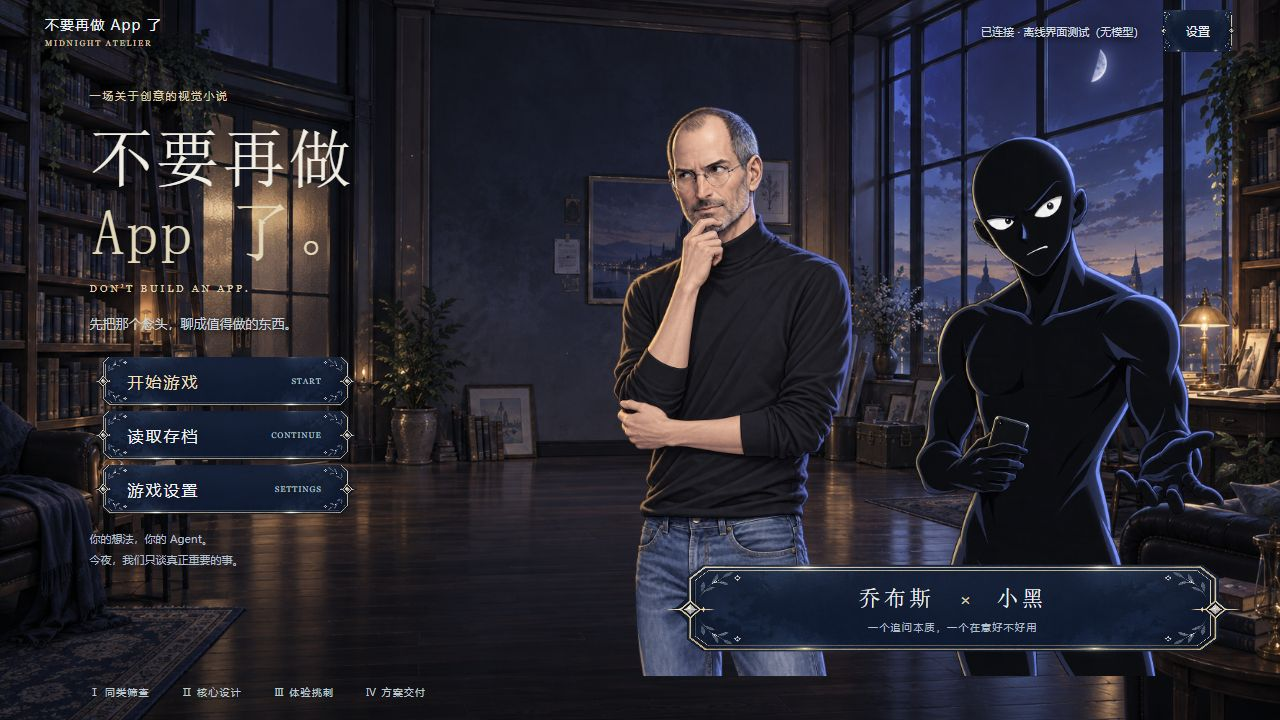
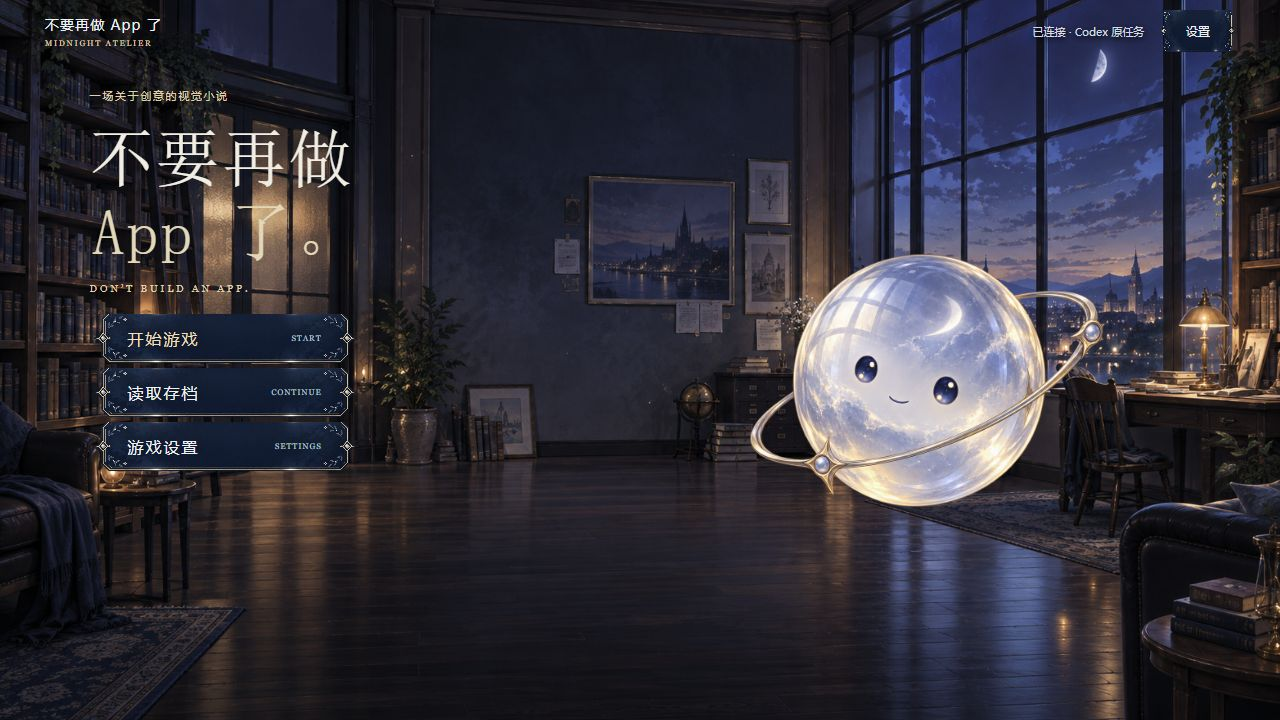
Simplify main menu and feature the system companion

diff --git a/web/game.css b/web/game.css
@@ -56,30 +56,14 @@ header {
 }
 .menu h1 span { display: block; padding-left: .04em; color: #e5d7b7; }
 .title-en { font: 10px Georgia, serif; color: var(--gold); letter-spacing: .29em; margin: 18px 0 26px; }
-.intro { font-size: 13px; line-height: 1.9; color: #c4d1dc; text-shadow: 0 2px 6px #000; }
 .menu-actions { margin-top: 29px; display: flex; flex-direction: column; gap: 10px; width: 270px; }
 .menu-actions button {
   display: flex; align-items: center; justify-content: space-between;
   width: 100%; height: 57px; padding: 0 38px; font-size: 16px; letter-spacing: .12em;
 }
 .menu-actions small { font: 8px Georgia, serif; letter-spacing: .12em; color: #b9c9d5; }
-.menu-note { font-size: 11px; line-height: 1.9; margin-top: 22px; color: #b0bfcc; }
-.cover { position: absolute; top: 6px; bottom: 44px; right: 1%; width: 63%; z-index: 1; pointer-events: none; }
-.cover img { position: absolute; bottom: 0; height: 97%; width: 73%; object-fit: contain; object-position: bottom; }
-.cover-jobs { left: -4%; z-index: 2; }
-.cover-black { right: -9%; z-index: 1; height: 91% !important; }
-.cover-label {
-  position: absolute; bottom: 3%; left: 25%; right: 3%; z-index: 3;
-  text-align: center; padding: 24px 16px;
-  background: var(--button) center / 100% 155% no-repeat;
-}
-.cover-label span { font: 22px var(--serif); letter-spacing: .15em; }
-.cover-label b { margin: 0 25px; font-weight: 400; color: var(--gold); }
-.cover-label small { display: block; font-size: 10px; letter-spacing: .13em; margin-top: 9px; color: var(--muted); }
-.menu footer {
-  position: absolute; left: 7vw; right: 6vw; bottom: 21px;
-  display: flex; gap: 32px; color: #bcc8d3; font-size: 10px; letter-spacing: .12em;
-}
+.cover { position: absolute; top: 10%; bottom: 12%; right: 3%; width: 53%; z-index: 1; pointer-events: none; }
+.cover img { display: block; height: 100%; width: 100%; object-fit: contain; object-position: center; }
 .stage { position: relative; height: calc(100svh - 62px); min-height: 600px; overflow: hidden; }
 .stage-top {
   position: relative; z-index: 2; padding: 10px 4vw;
@@ -196,7 +180,6 @@ fieldset { border: 0; padding: 20px 0 5px; margin: 0; }
   .title-en { margin: 14px 0 18px; }
   .menu-actions { margin-top: 20px; gap: 5px; }
   .menu-actions button { height: 49px; }
-  .menu-note { margin-top: 15px; }
   .stage { min-height: 560px; }
   .reply-panel { top: 23%; }
   .character-area { top: 0; bottom: 90px; }
@@ -209,12 +192,7 @@ fieldset { border: 0; padding: 20px 0 5px; margin: 0; }
   .menu-copy { width: 60%; padding: 55px 0 0 6vw; }
   .menu h1 { font-size: 64px; }
   .menu-actions { width: 245px; }
-  .cover { top: 195px; bottom: 30px; width: 80%; right: -12%; }
-  .cover-jobs { left: 5%; }
-  .cover-black { right: -8%; height: 85% !important; }
-  .cover-label { display: none; }
-  .menu-note { max-width: 225px; }
-  .menu footer { left: 6vw; right: 6vw; gap: 20px; font-size: 9px; }
+  .cover { top: 32%; bottom: 14%; width: 58%; right: -2%; }
   .stage { height: calc(100svh - 58px); min-height: 650px; }
   .stage-top { padding: 12px 5vw; }
   .character-area { inset: 40px 0 95px; }
@@ -236,11 +214,8 @@ fieldset { border: 0; padding: 20px 0 5px; margin: 0; }
   #connection { max-width: 120px; }
   .menu-copy { width: 85%; padding-top: 32px; }
   .menu h1 { font-size: 55px; }
-  .intro { font-size: 11px; }
   .menu-actions { width: 220px; }
-  .cover { width: 97%; right: -28%; top: 245px; opacity: .9; }
-  .menu-note { max-width: 200px; }
-  .menu footer { gap: 13px; font-size: 8px; }
+  .cover { width: 69%; right: -5%; top: 47%; bottom: 2%; }
   .quick-menu button { min-width: 0; padding: 9px 16px; font-size: 10px; }
   .dialogue-caption { display: none; }
   .dialogue { padding: 36px 7vw 22px; }

diff --git a/web/game.html b/web/game.html
@@ -4,9 +4,8 @@
 <main id="app">
   <header><button class="wordmark" id="home" aria-label="返回主菜单">不要再做 App 了<span>MIDNIGHT ATELIER</span></button><div class="header-right"><span id="connection" role="status">正在连接原 Agent…</span><button class="quiet" id="settings-open">设置</button></div></header>
   <section id="menu" class="menu">
-    <div class="menu-copy"><p class="eyebrow">一场关于创意的视觉小说</p><h1>不要再做<span>App 了。</span></h1><p class="title-en">DON’T BUILD AN APP.</p><p class="intro">先把那个念头，聊成值得做的东西。</p><div class="menu-actions"><button id="start" class="primary">开始游戏 <small>START</small></button><button id="saves-open" class="quiet">读取存档 <small>CONTINUE</small></button><button id="menu-settings" class="quiet">游戏设置 <small>SETTINGS</small></button></div><p class="menu-note">你的想法，你的 Agent。<br>今夜，我们只谈真正重要的事。</p></div>
-    <div class="cover" aria-hidden="true"><img class="cover-black" src="/builtin/xiaohei/skeptical" alt=""><img class="cover-jobs" src="/builtin/jobs/thinking" alt=""><div class="cover-label"><span>乔布斯</span><b>×</b><span>小黑</span><small>一个追问本质，一个在意好不好用</small></div></div>
-    <footer><span>Ⅰ 同类筛查</span><span>Ⅱ 核心设计</span><span>Ⅲ 体验挑刺</span><span>Ⅳ 方案交付</span></footer>
+    <div class="menu-copy"><p class="eyebrow">一场关于创意的视觉小说</p><h1>不要再做<span>App 了。</span></h1><p class="title-en">DON’T BUILD AN APP.</p><div class="menu-actions"><button id="start" class="primary">开始游戏 <small>START</small></button><button id="saves-open" class="quiet">读取存档 <small>CONTINUE</small></button><button id="menu-settings" class="quiet">游戏设置 <small>SETTINGS</small></button></div></div>
+    <div class="cover" aria-hidden="true"><img class="cover-system" src="/builtin/system/neutral" alt=""></div>
   </section>
   <section id="stage" class="stage" hidden>
     <div class="stage-top"><div><span class="eyebrow" id="chapter">序章</span><h2 id="save-title">你的下一个想法</h2></div><button class="quiet" id="host-open">回原 Agent</button></div>

diff --git a/docs/reports/2026-09-17-midnight-ui.md b/docs/reports/2026-09-17-midnight-ui.md
@@ -16,8 +16,9 @@
 - 17 张原始素材尺寸/透明通道读取完成：除场景背景外，人物和 UI 皮肤均有实际透明通道；生成原件原样复制入仓库。
 - Codex 内置浏览器离线夹具：1280×720 主菜单和对话舞台，720×900 分栏布局、设置、回复框；实际查看表情、姓名、按钮和正文。
 - 实际点击检查：读档 → 乔布斯接纳/转接 → 小黑登场/提问 → 输入并发送样例回复 → 小黑告别 → 系统交付 → 打开 Markdown 阅读器。刷新后从存档恢复到小黑对应台词。
-- 浏览器控制台没有 error/warn。截图保存在 `docs/screenshots/`，内容明确标注“离线界面测试（无模型）”。
+- 浏览器控制台没有 error/warn。截图保存在 `docs/screenshots/`，对话及设置截图明确标注“离线界面测试（无模型）”；主菜单截图随下述修订更新为本地运行页面。
 - 本地正式服务已启动新代码，实际页面显示新主菜单和“已连接 · Codex 原任务”，控制台没有 error/warn；保留主菜单供查看，没有从正式页面发送测试输入。
+- 按后续截图反馈，删除主菜单标题下介绍、按钮下两行文案、底部流程文字，双人物封面改为现有系统精灵生成图；1280×720 和 720×900 均已实际查看。此项只改 HTML/CSS 与预览，不改变对话逻辑。
 
 ## 边界
 

diff --git a/docs/visual-direction.md b/docs/visual-direction.md
@@ -14,7 +14,7 @@
 
 主题为「夜间创作室 / Midnight Atelier」：月光中的工作室与藏书、深蓝玻璃质感、细香槟金边线、月白文字。人物使用较成熟的日系游戏插画，统一右侧蓝色轮廓光和左侧微暖光。
 
-- 主菜单：左侧标题与纵向开始/读档/设置，右侧两位人物。
+- 主菜单：左侧标题与纵向开始/读档/设置，右侧系统精灵。按用户反馈移除标题下介绍、按钮下文案和底部流程文字。
 - 对话：大立绘、底部固定宽文本框、左上姓名牌、最下缘快捷菜单。
 - 回复：台词结束后中央弹出输入区，可以收起；桌面和窄分栏下保留人物面部。
 - 存档、设置、交付和阅读器：复用生成框体，不另画一套网页卡片。
@@ -41,7 +41,7 @@
 
 ## 预览
 
-以下截图来自明确标注“无模型”的离线界面样例，不是实际产品审查内容。
+主菜单截图来自本地运行页面；人物对话与设置截图来自明确标注“无模型”的离线界面样例，不是实际产品审查内容。
 
 ![主菜单](screenshots/midnight-menu.jpg)
 
